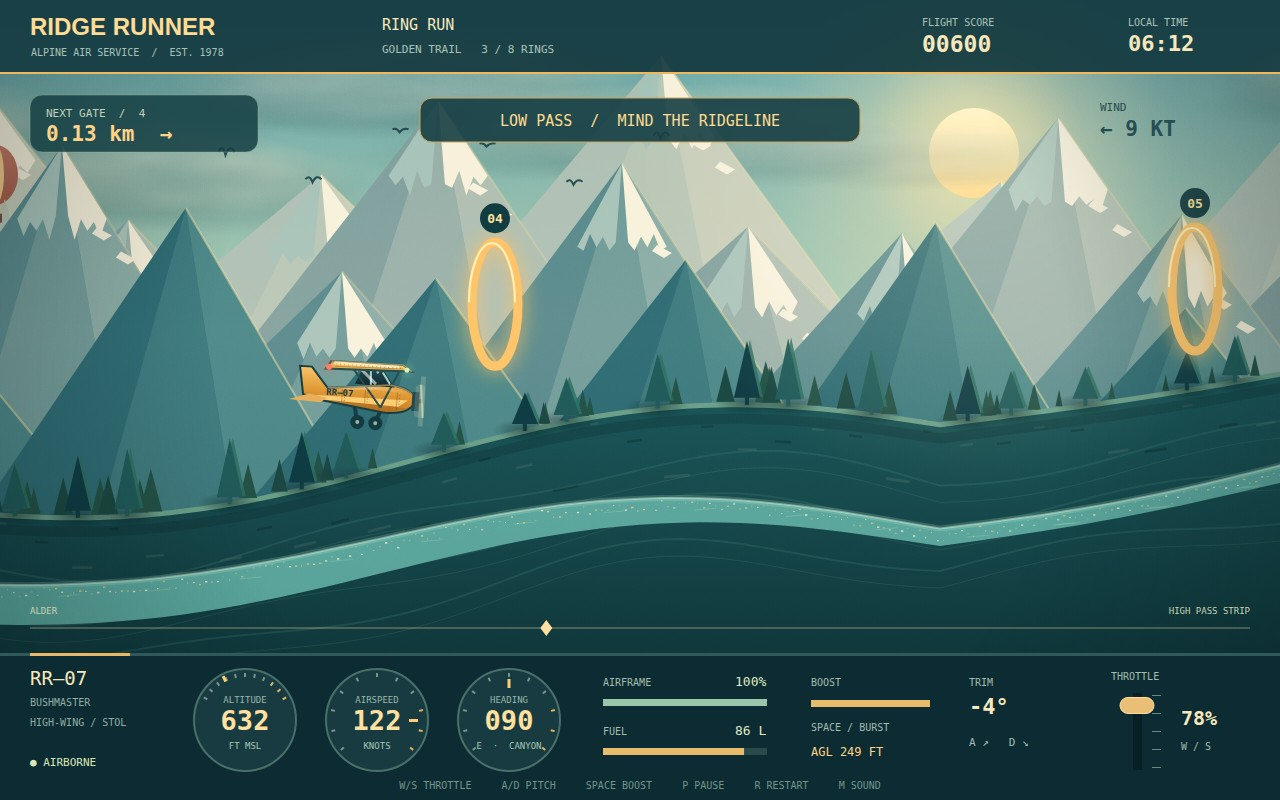
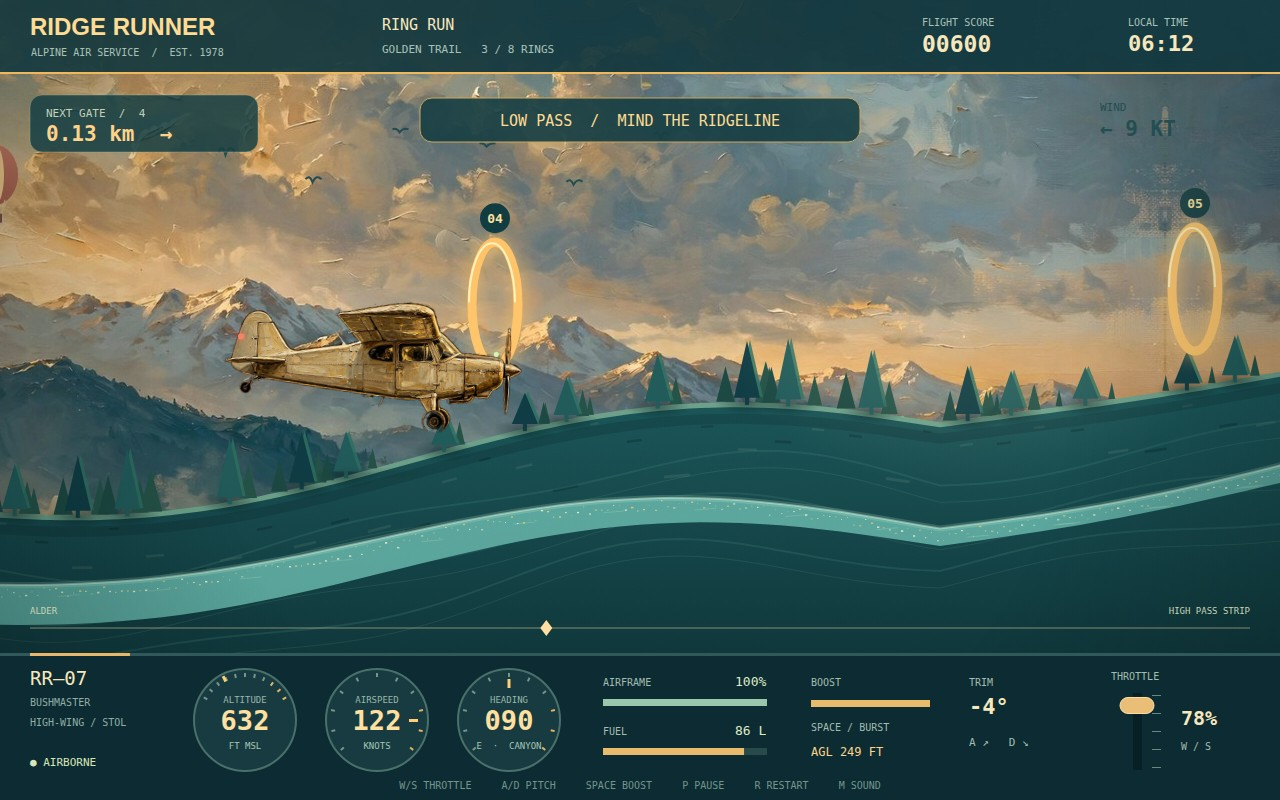
Painted art pass: impasto plate backdrops (chase/storm/canyon) + keyed plane sprites replace vector world in both views, vector fallback kept; pre-keyed RGBA fallback for file:// canvas tainting

diff --git a/game/src/art.js b/game/src/art.js
@@ -1,0 +1,56 @@
+/* Optional painted assets, keyed once at load; deterministic and file:// safe. */
+(()=>{
+ try{
+  if(typeof Image==='undefined'||typeof document==='undefined'||typeof document.createElement!=='function'){RR.art={ready:()=>false,failed:true};return;}
+  const assets=Object.create(null),failed=Object.create(null);
+  const art=RR.art={failed:false,ready:name=>!failed[name]&&!!assets[name],drawChase,drawCanyon};
+  function canvas(w,h){const a=document.createElement('canvas');a.width=w;a.height=h;return a;}
+  function key(img){
+   const w=img.naturalWidth,h=img.naturalHeight,a=canvas(w,h),c=a.getContext('2d');c.drawImage(img,0,0);
+   const data=c.getImageData(0,0,w,h),pixels=data.data,n=w*h,dark=new Uint8Array(n),bg=new Uint8Array(n),seen=new Uint8Array(n),stack=new Int32Array(n),component=new Int32Array(n);
+   for(let i=0;i<n;i++)dark[i]=Math.max(pixels[i*4],pixels[i*4+1],pixels[i*4+2])<=16?1:0;
+   // Mark on insertion so each pixel occupies the stack at most once.
+   let top=0;
+   function push(i,mask){if(dark[i]&&!bg[i]&&!mask[i]){mask[i]=1;stack[top++]=i;}}
+   function border(i){if(dark[i]&&!bg[i]){bg[i]=1;stack[top++]=i;}}
+   for(let x=0;x<w;x++){border(x);border((h-1)*w+x);}
+   for(let y=0;y<h;y++){border(y*w);border(y*w+w-1);}
+   while(top){const i=stack[--top],x=i%w;if(x)border(i-1);if(x<w-1)border(i+1);if(i>=w)border(i-w);if(i<n-w)border(i+w);}
+   for(let start=0;start<n;start++){
+    if(!dark[start]||bg[start]||seen[start])continue;
+    let count=0,sumMax=0,sumSpread=0;push(start,seen);
+    while(top){const i=stack[--top],x=i%w,p=i*4,max=Math.max(pixels[p],pixels[p+1],pixels[p+2]),min=Math.min(pixels[p],pixels[p+1],pixels[p+2]);component[count++]=i;sumMax+=max;sumSpread+=max-min;if(x)push(i-1,seen);if(x<w-1)push(i+1,seen);if(i>=w)push(i-w,seen);if(i<n-w)push(i+w,seen);}
+    if(sumMax/count<=2.5&&sumSpread/count<=2)for(let j=0;j<count;j++)bg[component[j]]=1;
+   }
+   let alpha=new Uint8Array(n),next=new Uint8Array(n);for(let i=0;i<n;i++)alpha[i]=bg[i]?0:255;
+   for(let pass=0;pass<2;pass++){
+    for(let y=0;y<h;y++)for(let x=0;x<w;x++){let sum=0,count=0;for(let yy=Math.max(0,y-1);yy<=Math.min(h-1,y+1);yy++)for(let xx=Math.max(0,x-1);xx<=Math.min(w-1,x+1);xx++){sum+=alpha[yy*w+xx];count++;}next[y*w+x]=Math.round(sum/count);}
+    const swap=alpha;alpha=next;next=swap;
+   }
+   for(let i=0;i<n;i++){const p=i*4,v=alpha[i];pixels[p+3]=v;if(v>0&&v<255)for(let k=0;k<3;k++)pixels[p+k]=Math.min(255,Math.round(pixels[p+k]*255/v));}
+   c.putImageData(data,0,0);return a;
+  }
+  function paint(c,fn){if(art.failed)return;let saved=false;try{c.save();saved=true;fn();}catch(e){return;}finally{if(saved)try{c.restore();}catch(e){return;}}}
+  function drawChase(c,opts){paint(c,()=>{
+   const img=assets[opts.storm?'storm':'chase'];if(!img)return;
+   const zoom=(opts.low?1.22:1.07)+Math.min(.04,opts.speed*.00015),scale=Math.max(1280/img.naturalWidth,579/img.naturalHeight)*zoom,dw=img.naturalWidth*scale,dh=img.naturalHeight*scale;
+   const dx=640-opts.lateral*.05-dw/2,dy=Math.max(653-dh,Math.min(74,363.5-(opts.low?.68:.52)*dh-opts.pitch*26));
+   c.translate(640,363.5);c.rotate(-opts.bank*.03);c.translate(-640,-363.5);c.drawImage(img,dx,dy,dw,dh);
+  });}
+  function drawCanyon(c,camX,storm){paint(c,()=>{
+   const img=assets.canyon;if(!img)return;const scale=Math.max(1280/img.naturalWidth,800/img.naturalHeight),dw=img.naturalWidth*scale,dh=img.naturalHeight*scale,shift=camX*.045,off=((shift%dw)+dw)%dw;
+   let tile=Math.floor(shift/dw)-1;for(let x=-off-dw;x<1280;x+=dw,tile++)c.drawImage(tile%2?assets.canyonFlipped:img,x,-30,dw,dh);
+   if(storm){c.fillStyle='rgba(24,40,50,.48)';c.fillRect(0,0,1280,800);}
+  });}
+  for(const [name,file] of Object.entries({chase:'plate-chase.jpg',storm:'plate-storm.jpg',canyon:'plate-canyon.jpg',planeRear:'plane-rear.webp',planeSide:'plane-side.webp'})){
+   const img=new Image();img.onload=()=>{try{
+    if(name==='planeRear'||name==='planeSide'){
+     try{assets[name]=key(img);art[name]=assets[name];}
+     catch(e){const fallback=new Image();fallback.onload=()=>{assets[name]=fallback;art[name]=assets[name];};fallback.onerror=()=>{failed[name]=true;};fallback.src='assets/'+(name==='planeRear'?'plane-rear-keyed.webp':'plane-side-keyed.webp');}
+    }
+    else{if(name==='canyon'){const flipped=canvas(img.naturalWidth,img.naturalHeight),c=flipped.getContext('2d');c.translate(flipped.width,0);c.scale(-1,1);c.drawImage(img,0,0);assets.canyonFlipped=flipped;}assets[name]=img;}
+   }catch(e){failed[name]=true;}};
+   img.onerror=()=>{failed[name]=true;};img.src='assets/'+file;
+  }
+ }catch(e){RR.art={ready:()=>false,failed:true};}
+})();

diff --git a/game/src/chase.js b/game/src/chase.js
@@ -92,6 +92,10 @@ RR.Chase=class{
  }
  drawChasePlane(c){
   const ground=this.projectPoint(this.lateral,0,this.z+30),fade=Math.max(0,1-this.altitude/400);c.save();c.translate(ground.x,ground.y);c.scale(80*fade+10,12*fade+2);const shadow=c.createRadialGradient(0,0,0,0,0,1);shadow.addColorStop(0,`rgba(8,30,34,${.30*fade})`);shadow.addColorStop(1,'rgba(8,30,34,0)');c.fillStyle=shadow;c.beginPath();c.ellipse(0,0,1,1,0,0,7);c.fill();c.restore();
+  if(RR.art.ready('planeRear')){
+   c.save();c.translate(640+this.bank*22,480+this.pitch*28);c.rotate(this.bank);const planeScale=1+Math.max(0,100-this.altitude)*.0015;c.scale(planeScale,planeScale);c.drawImage(RR.art.planeRear,-440*.5,-351*.52,440,351);
+   for(const [x,color] of [[-173,'#d9826d'],[173,'#b9d6ac']]){c.fillStyle=color;c.shadowColor=color;c.shadowBlur=10;c.beginPath();c.arc(x*440/350,-25*440/350,3,0,7);c.fill();}c.restore();return;
+  }
   c.save();c.translate(640+this.bank*22,480+this.pitch*28);c.rotate(this.bank);const planeScale=1+Math.max(0,100-this.altitude)*.0015;c.scale(planeScale,planeScale);const poly=(p,color)=>{this.polygon(c,p.map(([x,y])=>({x,y})),color);c.strokeStyle='#183b40';c.lineWidth=.8;c.stroke();};const body=c.createLinearGradient(0,-54,0,65);body.addColorStop(0,'#eee4c4');body.addColorStop(.45,'#e9bc73');body.addColorStop(1,'#b98e53');
   c.strokeStyle='#dce5cc18';c.lineWidth=5;c.beginPath();c.moveTo(10,-36);c.bezierCurveTo(30,-10,15,40,28,80);c.stroke();
   const prop=c.createRadialGradient(0,-62,0,0,-62,47);for(const [p,a] of [[0,.052],[.55,.104],[.85,.169],[1,0]])prop.addColorStop(p,`rgba(242,232,205,${a})`);c.fillStyle=prop;c.beginPath();c.arc(0,-62,47,0,7);c.fill();
@@ -115,7 +119,7 @@ RR.Chase=class{
   for(const [x,color] of [[-173,'#d9826d'],[173,'#b9d6ac']]){c.fillStyle=color;c.shadowColor=color;c.shadowBlur=10;c.beginPath();c.arc(x,-25,3,0,7);c.fill();}c.restore();
  }
  drawWeather(c){if(this.mission===2){for(let i=0;i<3;i++)RR.fx.cloud(c,180+i*460,100+i%2*45,520,145,'dark',.4,i+30);c.strokeStyle='#cfdbd35c';c.lineWidth=1;for(let n=0;n<190;n++){const x=((n*173-this.time*260)%1340+1340)%1340,y=(n*79+this.time*390)%670;c.beginPath();c.moveTo(x,y);c.lineTo(x-22,y+34);c.stroke();}}if(this.boosting&&this.altitude<100){c.strokeStyle='#ddd7ae33';for(let n=0;n<12;n++){let x=n*117;c.beginPath();c.moveTo(x,580);c.lineTo(x+(x-640)*.08,620);c.stroke();}}}
- draw(c,g){this.time=g.time;c.save();c.beginPath();c.rect(0,74,1280,579);c.clip();if(g.shake)c.translate(Math.sin(g.time*95)*g.shake,Math.cos(g.time*77)*g.shake*.5);if(this.mission===2)c.translate(Math.sin(g.time*19)*1.4,Math.cos(g.time*23));this.drawSky(c);this.drawFarMountains(c);this.drawValleyFloor(c);if(this.mission===2){c.fillStyle='#142c3838';c.fillRect(0,74,1280,579);}this.drawRunways(c);this.drawRingsAhead(c);this.drawChasePlane(c);this.drawWeather(c);c.restore();
+ draw(c,g){this.time=g.time;c.save();c.beginPath();c.rect(0,74,1280,579);c.clip();if(g.shake)c.translate(Math.sin(g.time*95)*g.shake,Math.cos(g.time*77)*g.shake*.5);if(this.mission===2)c.translate(Math.sin(g.time*19)*1.4,Math.cos(g.time*23));if(RR.art.ready(this.mission===2?'storm':'chase')){RR.art.drawChase(c,{storm:this.mission===2,low:this.altitude<90,lateral:this.lateral,bank:this.bank,pitch:this.pitch,speed:this.speed,altitude:this.altitude});}else{this.drawSky(c);this.drawFarMountains(c);this.drawValleyFloor(c);}if(this.mission===2){c.fillStyle='#142c3838';c.fillRect(0,74,1280,579);}this.drawRunways(c);this.drawRingsAhead(c);this.drawChasePlane(c);this.drawWeather(c);c.restore();
   RR.fx.finish(c,{sunX:950,sunY:242,storm:this.mission===2});
   Object.assign(this.planeFacade,{x:this.z,y:this.altitude,vx:this.speed,pitch:this.pitch,grounded:this.grounded,throttle:this.throttle,fuel:this.fuel,hp:this.hp,boost:this.boost,stall:this.stall});const plane=g.plane,world=g.world;try{g.plane=this.planeFacade;g.world=this.worldFacade;RR.ui.draw(c,g);}finally{g.plane=plane;g.world=world;}
 

diff --git a/game/src/world.js b/game/src/world.js
@@ -16,6 +16,7 @@ RR.World=class{
   const c=ctx,sy=y=>560-(y-cam.y),sx=x=>x-cam.x;
   const hash=n=>{const h=Math.sin((n+this.seed)*127.1)*43758.5453;return h-Math.floor(h);};
   const storm=this.mission===2,sunX=1020-cam.x*.018;
+  if(RR.art.ready('canyon')){RR.art.drawCanyon(c,cam.x,storm);}else{
   const sky=c.createLinearGradient(0,0,0,660);for(const [p,color] of [[0,storm?'#344752':'#6ea7ab'],[.45,storm?'#657e7d':'#a9c9b2'],[.78,storm?'#a0b0a6':'#f3cf9c'],[1,storm?'#c5cdca':'#ffedb9']])sky.addColorStop(p,color);c.fillStyle=sky;c.fillRect(0,0,1280,800);
   for(const [r,a] of [[200,storm?.12:.5],[115,storm?.08:.55]]){const g=c.createRadialGradient(sunX,153,0,sunX,153,r),rgb=storm?'200,214,208':'255,227,160';g.addColorStop(0,`rgba(${rgb},${a})`);g.addColorStop(1,`rgba(${rgb},0)`);c.fillStyle=g;c.fillRect(sunX-r,153-r,r*2,r*2);}
   const sun=c.createLinearGradient(0,108,0,198);sun.addColorStop(0,'#fff3c4');sun.addColorStop(1,'#ffd98c');c.fillStyle=storm?'rgba(216,223,216,.16)':sun;c.beginPath();c.arc(sunX,153,storm?69:45,0,Math.PI*2);c.fill();
@@ -39,6 +40,7 @@ RR.World=class{
   for(let x=0;x<1280;x+=8){const y=550+Math.sin((x+cam.x*.55)*.006)*27,g=c.createLinearGradient(0,y,0,y+12);g.addColorStop(0,'rgba(20,50,50,.18)');g.addColorStop(1,'rgba(20,50,50,0)');c.fillStyle=g;c.fillRect(x,y,8,12);}
   c.strokeStyle='#d7dfb17d';c.lineWidth=2;for(let i=0;i<24;i++){let x=((i*111-cam.x*.6+t*12)%1400+1400)%1400;c.beginPath();c.moveTo(x,585+(i%4)*19);c.lineTo(x+37,585+(i%4)*19);c.stroke();}
   for(let n=0;n<220;n++){const wx=(Math.floor(cam.x*.55/8)+n)*8,x=wx-cam.x*.55,y=560+Math.sin(wx*.006)*27+hash(n+23)*10,size=1+hash(n+71)*1.5;c.fillStyle=`rgba(${n%2?'255,246,214':'255,205,120'},${.3+hash(wx)*.6})`;c.fillRect(x,y,size,size*.65);}
+  }
   // Solid ground is sampled from exactly the same height function as collisions.
   const soil=c.createLinearGradient(0,350,0,800);soil.addColorStop(0,'#1e5c5e');soil.addColorStop(1,'#0c3036');c.fillStyle=soil;c.beginPath();c.moveTo(-20,800);for(let x=-20;x<=1300;x+=10)c.lineTo(x,sy(this.ground(x+cam.x)));c.lineTo(1300,800);c.fill();
   for(let i=Math.floor(cam.x/37)-1;i<(cam.x+1300)/37;i++){const hash=Math.sin(i*127.1)*43758.5453,f=hash-Math.floor(hash),wx=i*37,x=sx(wx),y=sy(this.ground(wx)),len=8+f*18,offset=6+f*64;c.strokeStyle=i%2?'rgba(255,240,200,.09)':'rgba(0,0,0,.18)';c.lineWidth=2+f;c.beginPath();c.moveTo(x,y+offset);c.lineTo(x+len,y+offset+(sy(this.ground(wx+10))-y)*len/10);c.stroke();}

diff --git a/game/index.html b/game/index.html
@@ -2,4 +2,4 @@
 <html lang="en"><head><meta charset="utf-8"><meta name="viewport" content="width=device-width,initial-scale=1"><meta name="theme-color" content="#103f44"><title>RIDGE RUNNER · Alpine Air Service</title><style>
 *{box-sizing:border-box}html,body{margin:0;width:100%;height:100%;overflow:hidden;background:#102f35;color:#fff3d6;font-family:Arial,sans-serif}canvas{display:block;width:100%;height:100%;object-fit:contain;outline:none}#access{position:absolute;left:-9999px}
 </style></head><body><div id="access">RIDGE RUNNER. Use 1, 2, or 3 to choose a mission, Enter to fly. W/S throttle, A/D pitch, Space boost, P pause, R restart, Escape mission menu. V switches between side and chase views and restarts the mission. Chase: A/D bank, ArrowUp/ArrowDown climb and descend, W/S throttle, Space boost. Drag the throttle on the right of the instrument panel.</div><canvas id="game" width="1280" height="800" tabindex="0" aria-label="Ridge Runner canyon flight game"></canvas>
-<script src="src/audio.js"></script><script src="src/input.js"></script><script src="src/fx.js"></script><script src="src/world.js"></script><script src="src/plane.js"></script><script src="src/hud.js"></script><script src="src/chase.js"></script><script src="src/shots.js"></script><script src="src/main.js"></script></body></html>
+<script src="src/audio.js"></script><script src="src/input.js"></script><script src="src/fx.js"></script><script src="src/art.js"></script><script src="src/world.js"></script><script src="src/plane.js"></script><script src="src/hud.js"></script><script src="src/chase.js"></script><script src="src/shots.js"></script><script src="src/main.js"></script></body></html>

diff --git a/game/src/plane.js b/game/src/plane.js
@@ -34,6 +34,11 @@ RR.Plane=class{
   if(!this.grounded){const ground=this.world.ground(this.x),fade=Math.max(0,1-Math.max(0,this.y-ground)/500);c.save();c.translate(x,560-(ground-cam.y));c.scale(58*fade+8,7);const shadow=c.createRadialGradient(0,0,0,0,0,1);shadow.addColorStop(0,`rgba(10,34,39,${.22*fade})`);shadow.addColorStop(1,'rgba(10,34,39,0)');c.fillStyle=shadow;c.beginPath();c.ellipse(0,0,1,1,0,0,Math.PI*2);c.fill();c.restore();}
   c.save();c.strokeStyle=this.boosting?'#ffdb8c88':'#fff1c322';c.lineWidth=this.boosting?4:2;c.beginPath();this.trail.forEach(p=>c.lineTo(p.x-cam.x,560-(p.y-cam.y)));c.stroke();c.translate(x,y);c.rotate(-this.pitch);
   if(this.invincible>0&&Math.floor(t*12)%2)c.globalAlpha=.65;
+  if(RR.art.ready('planeSide')){
+   c.drawImage(RR.art.planeSide,-300*.48,-130*.76,300,130);
+   if(this.boosting)for(let i=0;i<3;i++){const x=-150-i*12.5,r=6+i*3,g=c.createRadialGradient(x,4,0,x,4,r);g.addColorStop(0,'rgba(224,214,182,.28)');g.addColorStop(1,'rgba(224,214,182,0)');c.fillStyle=g;c.fillRect(x-r,4-r,r*2,r*2);}
+   c.shadowBlur=9;c.shadowColor='#f26656';c.fillStyle='#fc8067';c.beginPath();c.arc(-128,-52,3,0,7);c.fill();c.shadowColor='#c4f6c0';c.fillStyle='#d4f5ba';c.beginPath();c.arc(128,-52,2.5,0,7);c.fill();c.restore();return;
+  }
   // Landing gear, wing struts, and a high wing with visible underside.
   c.strokeStyle='#173f46';c.lineWidth=4;c.beginPath();c.moveTo(-10,8);c.lineTo(-6,26);c.moveTo(19,5);c.lineTo(11,27);c.stroke();
   c.fillStyle='#143b42';for(const wx of [-6,12]){c.beginPath();c.arc(wx,25,7,0,7);c.fill();c.fillStyle='#9bb4a5';c.beginPath();c.arc(wx,25,2,0,7);c.fill();c.fillStyle='#143b42';}
